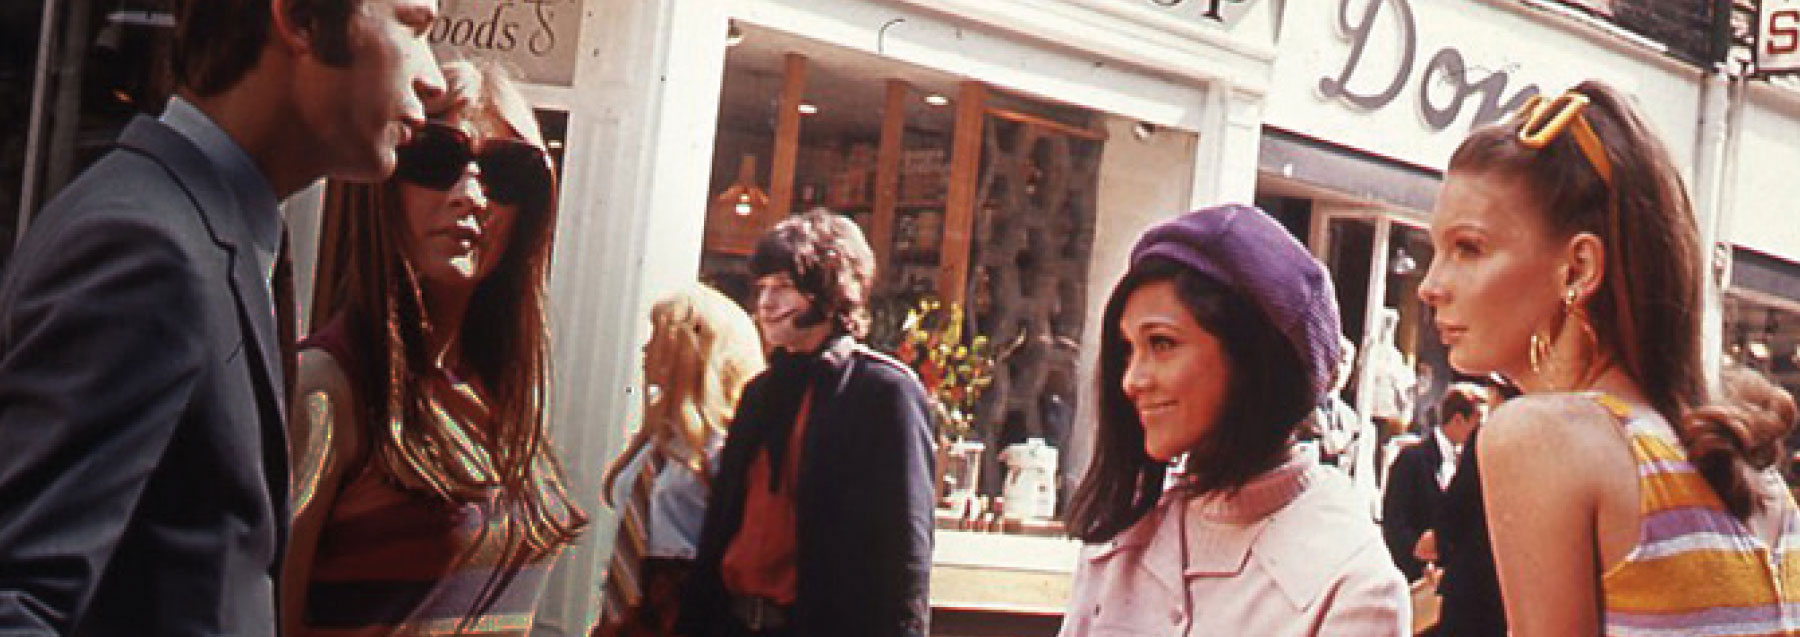
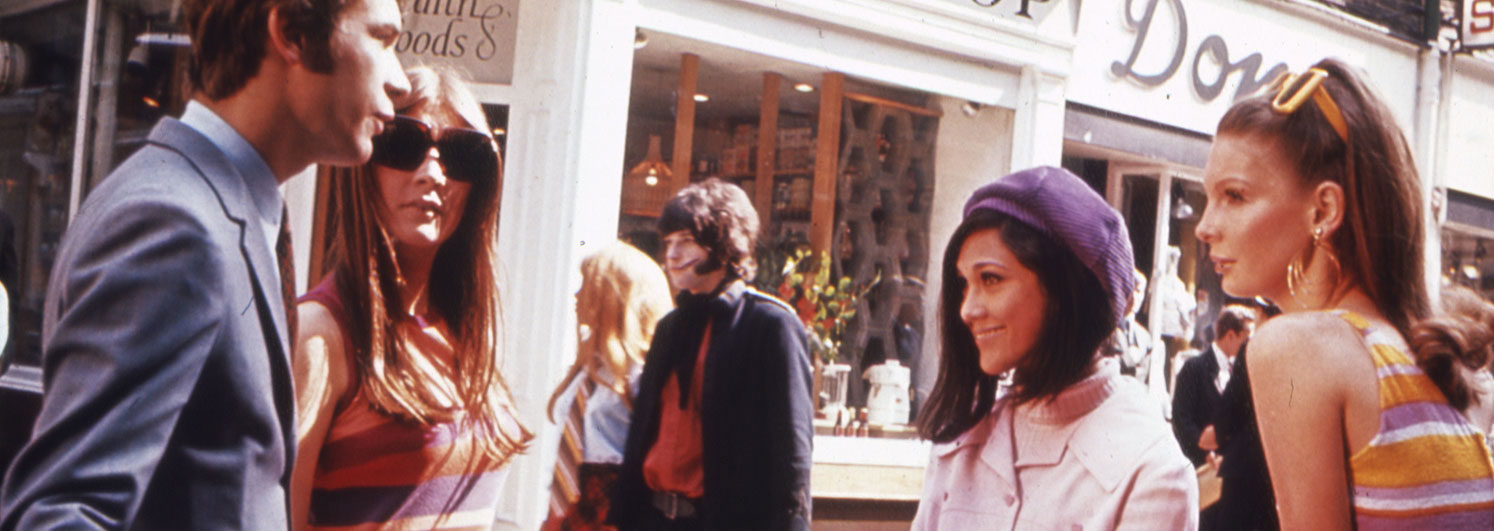
edited print css

diff --git a/css/base-sass.css b/css/base-sass.css
@@ -3447,7 +3447,7 @@ body {
   padding: .2em; }
 .tna-business-plan .banner {
   height: 364px;
-  background: #54575e url("../images/business-plan/bp-main-banner.jpg");
+  background: #54575e url("../images/business-plan/bp-main-banner.jpg") center;
   -webkit-background-size: cover;
   -moz-background-size: cover;
   -o-background-size: cover;
@@ -3525,7 +3525,7 @@ body {
     float: left; }
     @media print {
       .tna-business-plan .stats li {
-        width: 30% !important;
+        width: 48% !important;
         float: left;
         display: inline-block; } }
     @media (max-width: 600px) {
@@ -3627,6 +3627,14 @@ body {
       @media (max-width: 1024px) {
         .tna-business-plan .bp-tabs li.selected:after {
           border: 0; } }
+@media print {
+  .tna-business-plan .print-yes {
+    display: block !important; } }
+.tna-business-plan .web-no-print-yes {
+  display: none; }
+  @media print {
+    .tna-business-plan .web-no-print-yes {
+      display: block !important; } }
 .tna-business-plan .bp-tabs-container {
   border-bottom: 5px solid #d6d6d6; }
   @media print {
@@ -3683,14 +3691,6 @@ body {
     text-decoration: none; }
   .tna-business-plan .bx-controls-direction .active {
     background: #405480; }
-.tna-business-plan .bp-backBlue {
-  background: #405480;
-  color: #fff; }
-  .tna-business-plan .bp-backBlue img {
-    width: 100%; }
-  @media print {
-    .tna-business-plan .bp-backBlue {
-      display: none; } }
 .tna-business-plan .goals {
   float: right; }
   @media (max-width: 1280px) {
@@ -3700,6 +3700,9 @@ body {
   position: relative;
   margin: 1em 1.5em;
   height: 369px; }
+  @media print {
+    .tna-business-plan .tna-concept {
+      display: none; } }
 .tna-business-plan .government {
   background: url("../images/business-plan/trust.jpg") center;
   background-size: cover; }
@@ -3742,6 +3745,9 @@ body {
     margin: 2em auto;
     max-width: 480px;
     min-height: 362px; }
+  @media print {
+    .tna-business-plan .bp-slider {
+      display: none; } }
 .tna-business-plan .bp-slides {
   padding: 0;
   display: block; }
@@ -3833,25 +3839,16 @@ body {
   margin-top: .2em;
   list-style-type: none;
   font-size: .85em; }
-.tna-business-plan .placeHold {
-  width: 100%;
-  position: relative;
-  background: #cccccc; }
-  .tna-business-plan .placeHold img {
-    margin: 0 auto;
-    width: 450px;
-    vertical-align: middle;
-    display: block; }
-  @media print {
-    .tna-business-plan .placeHold {
-      display: none; } }
 .tna-business-plan .bp-highlight {
   font-size: 1.2em;
   color: #008484; }
   .tna-business-plan .bp-highlight span {
-    font-size: 2.4em;
+    font-size: 2em;
     font-weight: 700;
     clear: right; }
+    @media print {
+      .tna-business-plan .bp-highlight span {
+        font-size: 1.2em; } }
 .tna-business-plan .bp-download {
   text-align: right; }
   .tna-business-plan .bp-download a img {

diff --git a/css/sass/_namespaces.scss b/css/sass/_namespaces.scss
@@ -111,7 +111,7 @@ body {
   }
   .banner {
     height: 364px;
-    background: #54575e url('../images/business-plan/bp-main-banner.jpg');
+    background: #54575e url('../images/business-plan/bp-main-banner.jpg') center;
     -webkit-background-size: cover;
     -moz-background-size: cover;
     -o-background-size: cover;
@@ -195,7 +195,7 @@ body {
       font-family: 'Bitter', 'Open Sans', verdana, arial, sans-serif;
       float: left;
       @media print {
-        width:30% !important;
+        width:48% !important;
         float:left;
         display:inline-block;
       }
@@ -311,8 +311,18 @@ body {
         @media (max-width: 1024px) {
           border: 0;
         }
-
       }
+    }
+  }
+  .print-yes {
+    @media print {
+      display: block !important;
+    }
+  }
+  .web-no-print-yes {
+    display: none;
+    @media print {
+      display: block !important;
     }
   }
   .bp-tabs-container {
@@ -379,18 +389,7 @@ body {
       text-decoration: none;
     }
     .active {
-
       background:#405480;
-    }
-  }
-  .bp-backBlue {
-    background: #405480;
-    color: #fff;
-    img {
-      width: 100%
-    }
-    @media print {
-      display:none;
     }
   }
   .goals {
@@ -403,6 +402,9 @@ body {
     position: relative;
     margin: 1em 1.5em;
     height: 369px;
+    @media print {
+      display:none;
+    }
   }
   .government {
     background: url('../images/business-plan/trust.jpg') center;
@@ -457,6 +459,9 @@ body {
       margin: 2em auto;
       max-width: 480px;
       min-height: 362px;
+    }
+    @media print {
+      display:none;
     }
   }
   .bp-slides {
@@ -571,27 +576,16 @@ body {
     list-style-type: none;
     font-size: .85em;
   }
-  .placeHold {
-     width:100%;
-     position:relative;
-     background:#cccccc;
-     img{
-       margin:0 auto;
-       width:450px;
-       vertical-align:middle;
-       display:block;
-     }
-    @media print{
-      display:none;
-    }
-   }
   .bp-highlight {
     font-size: 1.2em;
     color: #008484;
     span {
-      font-size: 2.4em;
+      font-size: 2em;
       font-weight: 700;
       clear: right;
+      @media print {
+        font-size: 1.2em;
+      }
     }
   }
   .bp-download {

diff --git a/business-plan.php b/business-plan.php
@@ -73,9 +73,10 @@ get_header(); ?>
 <section class="tna-business-plan">
     <div class="container">
         <div class="breather">
-            <section class="row" aria-labelledby="government-tab" role="tabpanel" aria-hidden="false">
+            <section class="row print-yes" aria-labelledby="government-tab" role="tabpanel" aria-hidden="false">
                 <div class="col starts-at-full ends-at-half box clr">
                     <div class="breather">
+                        <h3 class="web-no-print-yes">Government</h3>
                     <p class="bp-highlight">We will provide <span>expert advice</span> and scrutiny to government, making sure that the record survives and thrives</p>
                     <p>We are both the custodian of the public record and the government’s expert in the management,
                         preservation and use of information. We are uniquely placed by virtue of our history,
@@ -104,9 +105,10 @@ get_header(); ?>
                     </div>
                 </div>
             </section>
-            <section class="row" aria-labelledby="public-tab" role="tabpanel" aria-hidden="false">
+            <section class="row print-yes" aria-labelledby="public-tab" role="tabpanel" aria-hidden="false">
                 <div class="col starts-at-full ends-at-half box clr">
                     <div class="breather">
+                        <h3 class="web-no-print-yes">Public</h3>
                     <p class="bp-highlight">We will inspire the public with new ways of using and <span>experiencing our collection</span></p>
                     <p> We are a window on more than 1,000 years of the nation’s history and our collection at Kew is
                         open to everyone, for free.</p>
@@ -115,9 +117,9 @@ get_header(); ?>
                         site at Kew or encounter us online. </p>
                     <ul class="stats">
                         <li>
-                            <div>Broadcast to over</div>
+                            <div>Over</div>
                             <span>270,000</span>
-                            <p>students globally with Discovery Education of our Magna Carta assembly</p>
+                            <p>students worldwide watched our Magna Carta Assembly in partnership with Discovery Education</p>
                         </li>
                         <li>
                             <div>Nearly</div>
@@ -136,9 +138,10 @@ get_header(); ?>
                     </div>
                 </div>
             </section>
-            <section class="row" aria-labelledby="archives-sector-tab" role="tabpanel" aria-hidden="false">
+            <section class="row print-yes" aria-labelledby="archives-sector-tab" role="tabpanel" aria-hidden="false">
                 <div class="col starts-at-full ends-at-half box clr">
                     <div class="breather">
+                        <h3 class="web-no-print-yes">Archives sector</h3>
                     <p class="bp-highlight">We will be an <span>effective leader</span> and partner for the archives sector, to sustain and develop the nation’s collection</p>
                     <p>The nation’s collection is made up of thousands of archives, each with its own unique history. We
                         lead the wider archive sector in England and perform the Historical Manuscripts Commission's
@@ -168,10 +171,11 @@ get_header(); ?>
                     </div>
                 </div>
             </section>
-            <section class="row" aria-labelledby="academic-tab" role="tabpanel" aria-hidden="false">
+            <section class="row print-yes" aria-labelledby="academic-tab" role="tabpanel" aria-hidden="false">
                 <div class="col starts-at-full ends-at-half box clr">
                     <div class="breather">
-                    <p class="bp-highlight">We will advance knowledge through exemplary academic liaison and <span>outstanding interdisciplinary research</span></p>
+                        <h3 class="web-no-print-yes">Research</h3>
+                    <p class="bp-highlight">We will advance knowledge through exemplary academic liaison and <span>outstanding</span> interdisciplinary research</p>
                     <p>We are one of the world’s most valuable resources for academic research. We have strong links
                         with the academic sector and we have set ourselves clear research priorities centred on the
                         challenges we face. Our staff are engaged in collaborative projects on the cutting edge of
@@ -200,9 +204,10 @@ get_header(); ?>
                     </div>
                 </div>
             </section>
-            <section class="row" aria-labelledby="digital-challenge-tab" role="tabpanel" aria-hidden="false">
+            <section class="row print-yes" aria-labelledby="digital-challenge-tab" role="tabpanel" aria-hidden="false">
                 <div class="col starts-at-full ends-at-half box clr">
                     <div class="breather">
+                        <h3 class="web-no-print-yes">Digital</h3>
                     <p class="bp-highlight">We will become a <br><span>digital archive by design</span></p>
                     <p>Over the last few years we have responded to changes in digital technology ways that have
                         benefitted each of our key audiences.</p>
@@ -218,7 +223,6 @@ get_header(); ?>
                         <li>
                             <div>Operation War Diary</div>
                             <span>Best of Web</span>
-
                             <p>award at Annual Conference of Museums and the Web</p>
                         </li>
                     </ul>
@@ -237,7 +241,7 @@ get_header(); ?>
     </div>
 </section>
 <section class="tna-business-plan">
-    <div class="testimonials-back bp-slider bp-backBlue">
+    <div class="bp-slider">
                 <div class="row">
                     <div class="starts-at-full ends-at-full clr">
                         <ul class="bp-slides">

diff --git a/inc/footer-scripts.php b/inc/footer-scripts.php
@@ -184,8 +184,8 @@ if ( is_page_template('research-guide-filter.php')  || is_page_template('researc
 	$(document).ready(function(){
 		$('.bp-slides').bxSlider({
 			auto: false,
-			nextText:'&#10095;',
-			prevText:'&#10094;',
+			nextText:'>',
+			prevText:'<',
 			speed: 3000,
 			pause: 7000,
 			autoHover: true,
